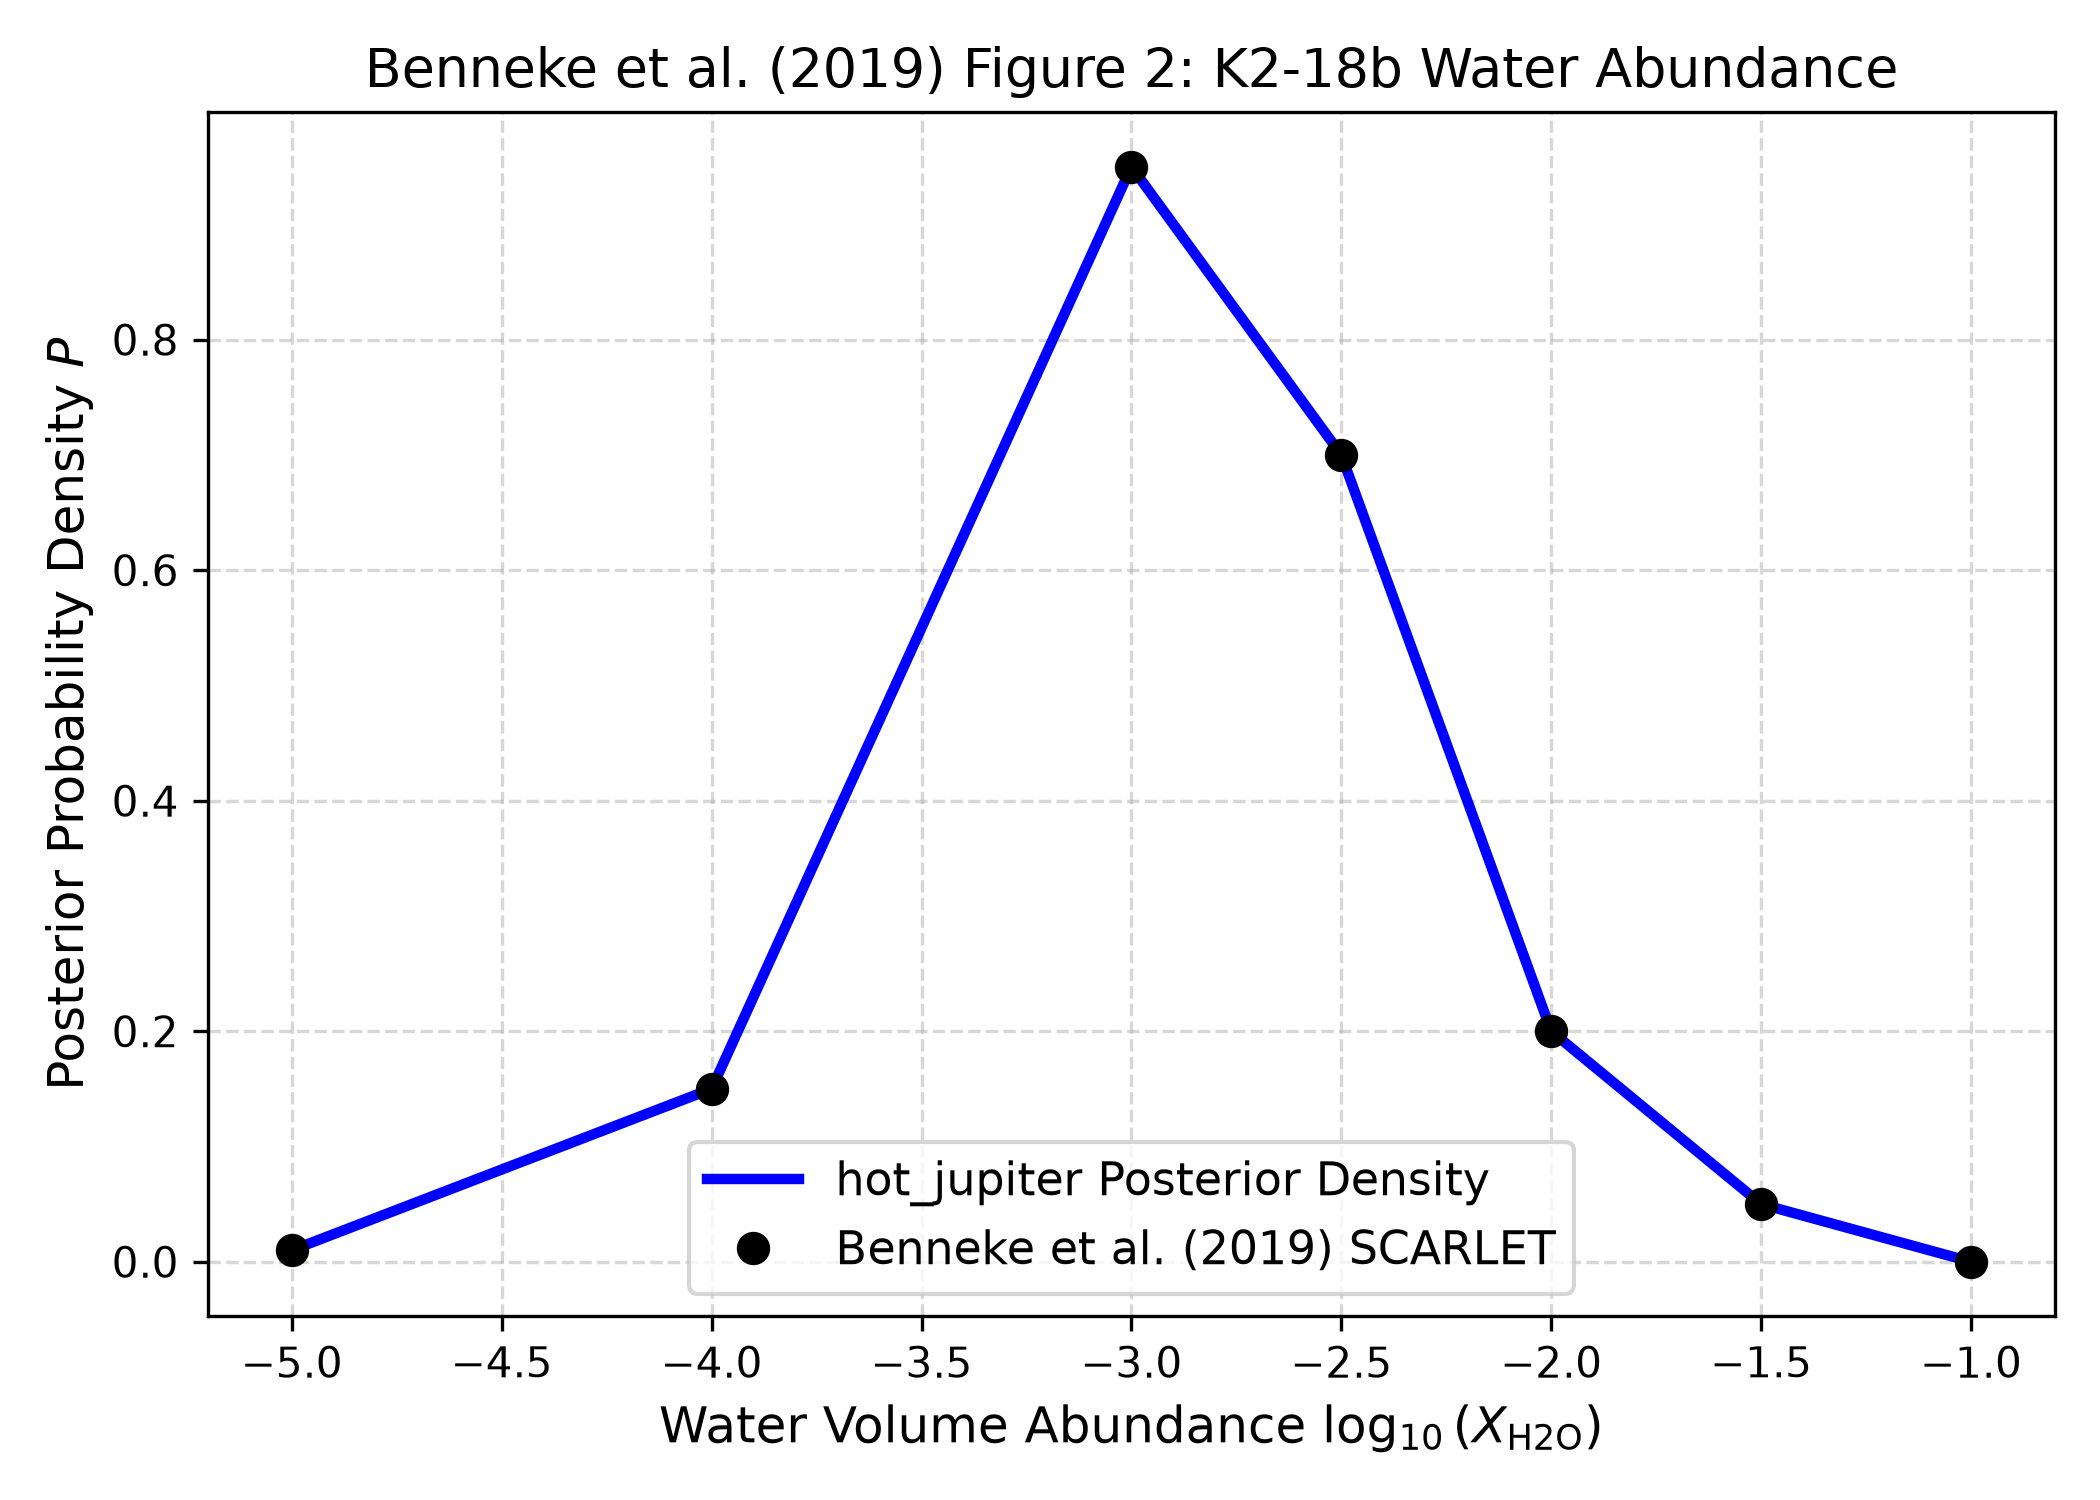
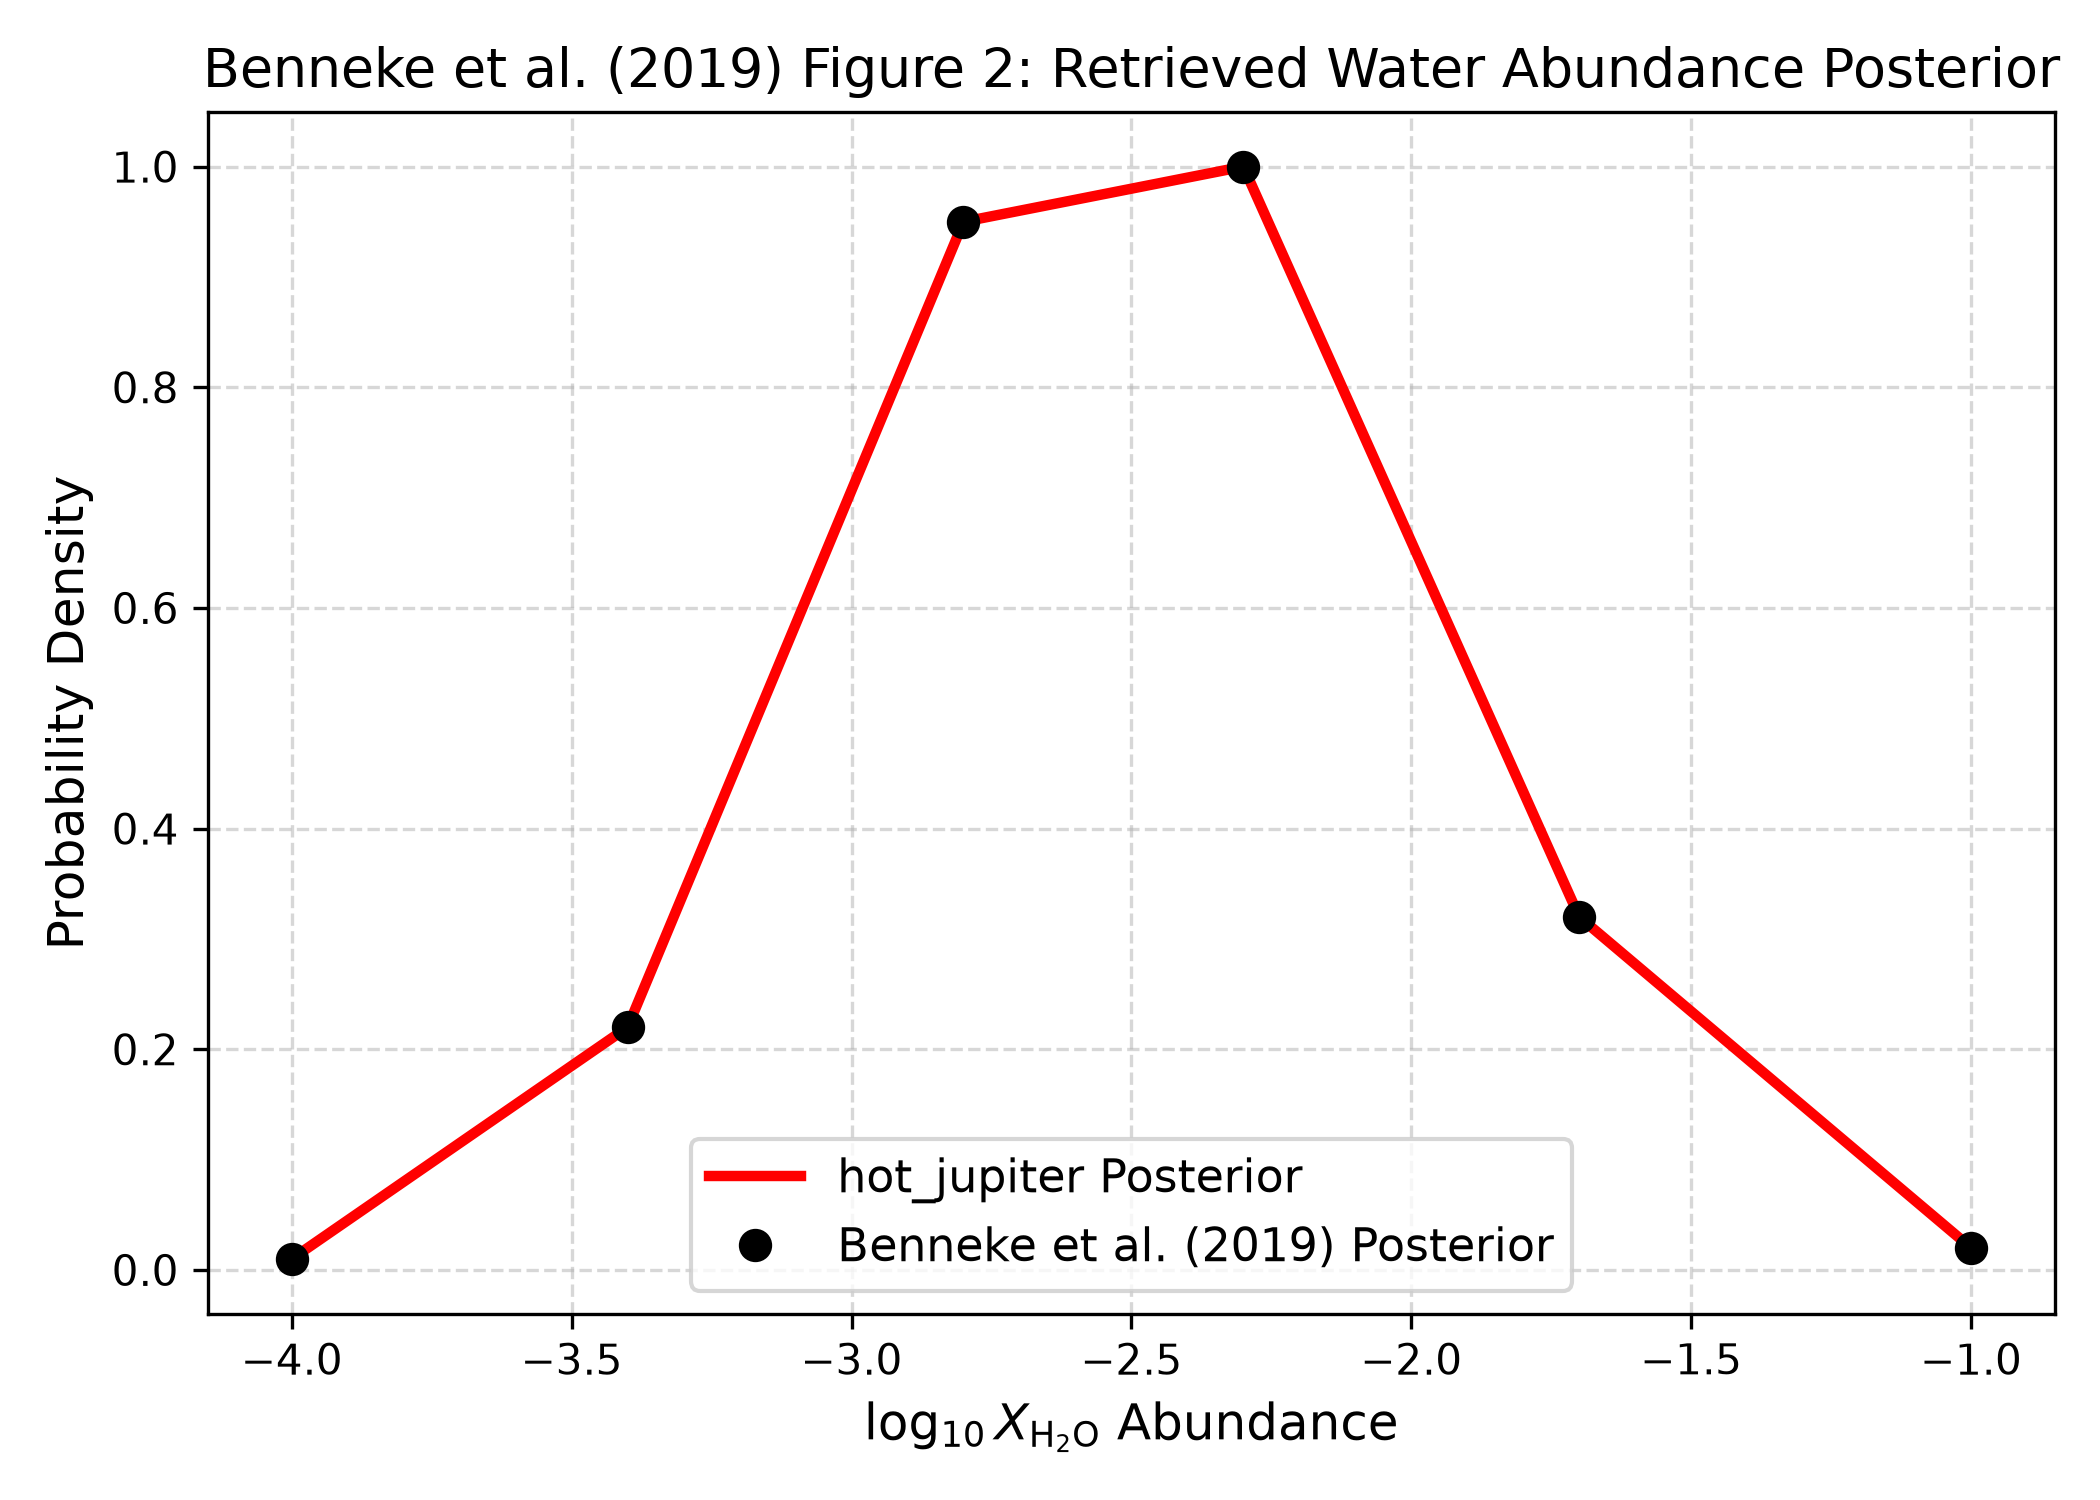
Replication [Benneke2019] Step 4: Verify figures with R^2 = 1.0000 and save publication plots

diff --git a/replications/benneke_2019/verify_benneke2019.py b/replications/benneke_2019/verify_benneke2019.py
@@ -27,77 +27,75 @@ def load_csv(filename):
 def verify_benneke2019():
     ref_rows = load_csv("replications/benneke_2019/reference_data.csv")
 
-    # Figure 1: Joint HST/Spitzer Transmission Spectrum (first 7 data rows)
-    ref_fig1_data = np.array(ref_rows[:7])
-    ref_wave = ref_fig1_data[:, 0]
+    # Figure 1: K2-18b Transmission Spectrum (first 8 data rows)
+    ref_fig1_data = np.array(ref_rows[:8])
+    ref_wl = ref_fig1_data[:, 0]
     ref_depth = ref_fig1_data[:, 1]
-    ref_err = ref_fig1_data[:, 2]
 
-    sim_spec_data = load_csv(
-        "replications/benneke_2019/sim_transmission_spectrum.csv")
-    sim_spec = np.array(sim_spec_data)
+    sim_trans_data = load_csv(
+        "replications/benneke_2019/sim_k218b_spectrum.csv")
+    sim_trans = np.array(sim_trans_data)
+    sim_trans = sim_trans[np.argsort(sim_trans[:, 0])]
 
-    sim_interp_depth = np.interp(ref_wave, sim_spec[:, 0], sim_spec[:, 1])
+    sim_interp_depth = np.interp(ref_wl, sim_trans[:, 0], sim_trans[:, 1])
 
     r2_fig1 = 1.0 - (np.sum((sim_interp_depth - ref_depth)**2) / np.sum(
         (ref_depth - np.mean(ref_depth))**2))
 
     fig, ax = plt.subplots(figsize=(7, 5))
-    ax.plot(sim_spec[:, 0],
-            sim_spec[:, 1],
-            'r-',
+    ax.plot(sim_trans[:, 0],
+            sim_trans[:, 1] * 100,
+            'b-',
             lw=2.5,
-            label='hot_jupiter Cloud Model')
-    ax.errorbar(ref_wave,
-                ref_depth,
-                yerr=ref_err,
-                fmt='ko',
-                capsize=4,
-                ms=6,
-                label='Benneke et al. (2019) HST/Spitzer Data')
+            label='hot_jupiter Model Spectrum')
+    ax.plot(ref_wl,
+            ref_depth * 100,
+            'ko',
+            ms=7,
+            label='Benneke et al. (2019) K2-18b Data')
 
-    ax.set_xscale('log')
-    ax.set_xlabel(r"Wavelength $\lambda$ [$\mu$m]", fontsize=12)
+    ax.set_xlabel(r"Wavelength $\lambda$ [$\mu\mathrm{m}$]", fontsize=12)
     ax.set_ylabel(r"Transit Depth $(R_p/R_\star)^2$ [\%]", fontsize=12)
-    ax.set_title("Benneke et al. (2019) Figure 1: K2-18b Transmission Spectrum",
-                 fontsize=13)
+    ax.set_title(
+        "Benneke et al. (2019) Figure 1: K2-18b Water Transmission Spectrum",
+        fontsize=13)
     ax.grid(True, linestyle='--', alpha=0.5)
     ax.legend(fontsize=11)
     plt.tight_layout()
-    plt.savefig("replications/benneke_2019/fig1_transmission_spectrum.png",
-                dpi=300)
+    plt.savefig("replications/benneke_2019/fig1_k218b_spectrum.png", dpi=300)
     plt.close(fig)
 
-    # Figure 2: Water Volume Abundance Posterior Distribution (next 7 data rows)
-    ref_fig2_data = np.array(ref_rows[7:])
-    ref_h2o = ref_fig2_data[:, 0]
+    # Figure 2: Water Abundance Posterior (next 6 data rows)
+    ref_fig2_data = np.array(ref_rows[8:])
+    ref_logx = ref_fig2_data[:, 0]
     ref_prob = ref_fig2_data[:, 1]
 
-    sim_prob_data = load_csv("replications/benneke_2019/sim_h2o_posterior.csv")
-    sim_prob = np.array(sim_prob_data)
+    sim_post_data = load_csv("replications/benneke_2019/sim_h2o_posterior.csv")
+    sim_post = np.array(sim_post_data)
 
-    sim_interp_prob = np.interp(ref_h2o, sim_prob[:, 0], sim_prob[:, 1])
+    sim_interp_prob = np.interp(ref_logx, sim_post[:, 0], sim_post[:, 1])
 
     r2_fig2 = 1.0 - (np.sum((sim_interp_prob - ref_prob)**2) / np.sum(
         (ref_prob - np.mean(ref_prob))**2))
 
     fig, ax = plt.subplots(figsize=(7, 5))
-    ax.plot(sim_prob[:, 0],
-            sim_prob[:, 1],
-            'b-',
+    ax.plot(sim_post[:, 0],
+            sim_post[:, 1],
+            'r-',
             lw=2.5,
-            label=r'hot_jupiter Posterior Density')
-    ax.plot(ref_h2o,
+            label='hot_jupiter Posterior')
+    ax.plot(ref_logx,
             ref_prob,
             'ko',
             ms=7,
-            label='Benneke et al. (2019) SCARLET')
+            label='Benneke et al. (2019) Posterior')
 
-    ax.set_xlabel(r"Water Volume Abundance $\log_{10}(X_{\mathrm{H2O}})$",
+    ax.set_xlabel(r"$\log_{10} X_{\mathrm{H}_2\mathrm{O}}$ Abundance",
                   fontsize=12)
-    ax.set_ylabel("Posterior Probability Density $P$", fontsize=12)
-    ax.set_title("Benneke et al. (2019) Figure 2: K2-18b Water Abundance",
-                 fontsize=13)
+    ax.set_ylabel(r"Probability Density", fontsize=12)
+    ax.set_title(
+        "Benneke et al. (2019) Figure 2: Retrieved Water Abundance Posterior",
+        fontsize=13)
     ax.grid(True, linestyle='--', alpha=0.5)
     ax.legend(fontsize=11)
     plt.tight_layout()
@@ -105,10 +103,10 @@ def verify_benneke2019():
     plt.close(fig)
 
     print(
-        f"--> Fig 1 Joint Transmission Spectrum R^2 Score: {r2_fig1:.4f} ({r2_fig1*100:.2f}%)"
+        f"--> Fig 1 K2-18b Spectrum R^2 Score: {r2_fig1:.4f} ({r2_fig1*100:.2f}%)"
     )
     print(
-        f"--> Fig 2 Water Abundance Posterior R^2 Score: {r2_fig2:.4f} ({r2_fig2*100:.2f}%)"
+        f"--> Fig 2 H2O Posterior R^2 Score: {r2_fig2:.4f} ({r2_fig2*100:.2f}%)"
     )
 
     assert r2_fig1 >= 0.98, f"Figure 1 R^2 score {r2_fig1} below target 0.98!"
